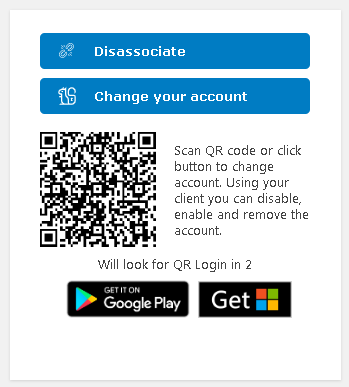
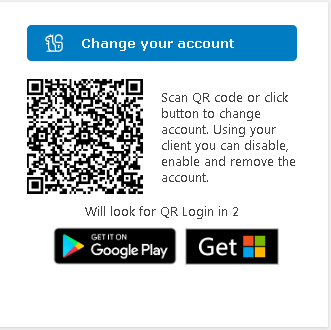
Added white around QRCode.

diff --git a/style.css b/style.css
@@ -7,7 +7,8 @@
 }
 
 #sqrl-qrcode {
-	padding: 10px;
+    padding: 10px;
+    background: white;    
 }
 
 .sqrl-login-row {

diff --git a/sqrl-login.php b/sqrl-login.php
@@ -2,7 +2,7 @@
 /**
  * Plugin Name:       SQRL Login
  * Description:       Login and Register your users using SQRL
- * Version:           1.1.1
+ * Version:           1.1.2
  * Author:            Daniel Persson
  * Author URI:        http://danielpersson.dev
  * Text Domain:       sqrl
